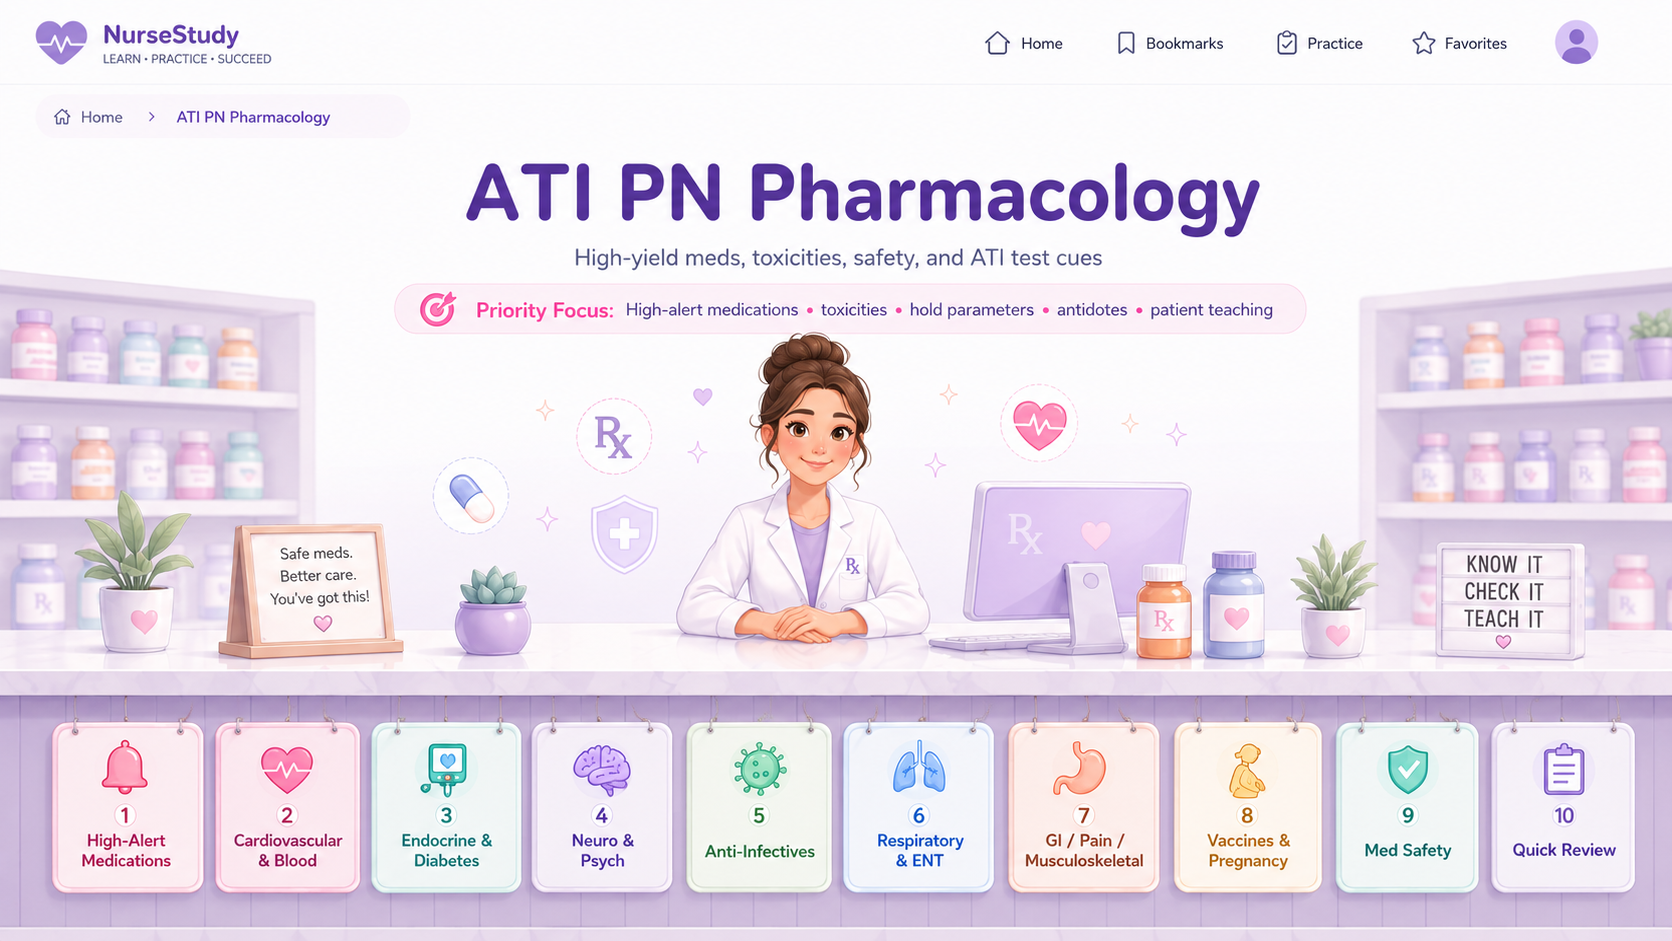
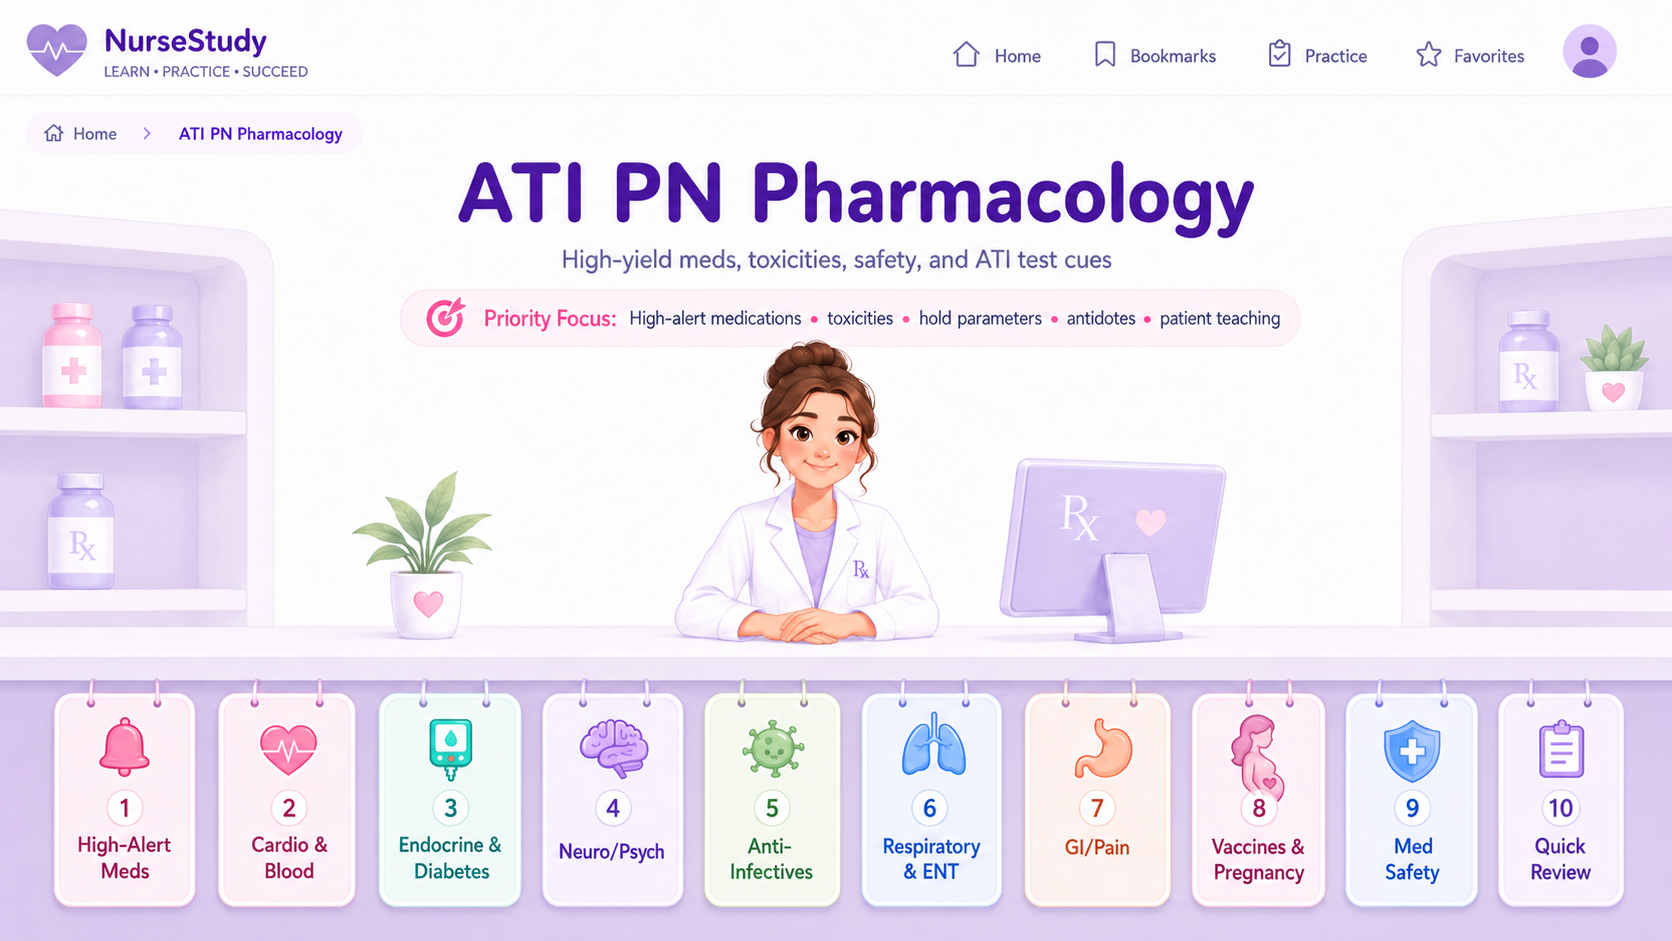
Use simplified pharmacology homepage mockup

diff --git a/assets/css/mh-cards.css b/assets/css/mh-cards.css
@@ -3218,7 +3218,7 @@ body[data-page-type="pharmacology-home"] .pharm-mockup-stage {
 body[data-page-type="pharmacology-home"] .pharm-mockup-art {
   position: absolute;
   left: 0;
-  top: -90px;
+  top: -94px;
   width: 100%;
   height: auto;
   max-width: none;
@@ -3233,11 +3233,36 @@ body[data-page-type="pharmacology-home"] .pharm-link-map {
   z-index: 2;
 }
 
+body[data-page-type="pharmacology-home"] .pharm-map-home {
+  position: absolute;
+  left: 1.25%;
+  top: 2.55%;
+  width: 8.8%;
+  height: 4.7%;
+  overflow: hidden;
+  border-radius: 999px;
+  color: transparent !important;
+  text-decoration: none !important;
+  font-size: 0;
+}
+
+body[data-page-type="pharmacology-home"] .pharm-map-home:hover,
+body[data-page-type="pharmacology-home"] .pharm-map-link:hover {
+  background: rgba(255, 255, 255, .12);
+}
+
+body[data-page-type="pharmacology-home"] .pharm-map-home:focus-visible,
+body[data-page-type="pharmacology-home"] .pharm-map-link:focus-visible {
+  outline: 4px solid rgba(111, 62, 214, .7);
+  outline-offset: -4px;
+  box-shadow: 0 0 0 7px rgba(255, 255, 255, .78);
+}
+
 body[data-page-type="pharmacology-home"] .pharm-map-link {
   position: absolute;
-  top: 74.05%;
-  width: 8.05%;
-  height: 22%;
+  top: 73.65%;
+  width: 8.35%;
+  height: 23.1%;
   overflow: hidden;
   border-radius: 18px;
   color: transparent !important;
@@ -3246,26 +3271,16 @@ body[data-page-type="pharmacology-home"] .pharm-map-link {
   transform: translateX(-50%);
 }
 
-body[data-page-type="pharmacology-home"] .pharm-map-link:focus-visible {
-  outline: 4px solid rgba(111, 62, 214, .7);
-  outline-offset: -4px;
-  box-shadow: 0 0 0 7px rgba(255, 255, 255, .78);
-}
-
-body[data-page-type="pharmacology-home"] .pharm-map-link:hover {
-  background: rgba(255, 255, 255, .12);
-}
-
-body[data-page-type="pharmacology-home"] .pharm-map-link.card-1 { left: 7.55%; }
-body[data-page-type="pharmacology-home"] .pharm-map-link.card-2 { left: 17.35%; }
-body[data-page-type="pharmacology-home"] .pharm-map-link.card-3 { left: 27.15%; }
-body[data-page-type="pharmacology-home"] .pharm-map-link.card-4 { left: 36.95%; }
-body[data-page-type="pharmacology-home"] .pharm-map-link.card-5 { left: 46.75%; }
-body[data-page-type="pharmacology-home"] .pharm-map-link.card-6 { left: 56.55%; }
-body[data-page-type="pharmacology-home"] .pharm-map-link.card-7 { left: 66.35%; }
-body[data-page-type="pharmacology-home"] .pharm-map-link.card-8 { left: 76.15%; }
-body[data-page-type="pharmacology-home"] .pharm-map-link.card-9 { left: 85.95%; }
-body[data-page-type="pharmacology-home"] .pharm-map-link.card-10 { left: 95.45%; }
+body[data-page-type="pharmacology-home"] .pharm-map-link.card-1 { left: 7.45%; }
+body[data-page-type="pharmacology-home"] .pharm-map-link.card-2 { left: 17.20%; }
+body[data-page-type="pharmacology-home"] .pharm-map-link.card-3 { left: 26.95%; }
+body[data-page-type="pharmacology-home"] .pharm-map-link.card-4 { left: 36.72%; }
+body[data-page-type="pharmacology-home"] .pharm-map-link.card-5 { left: 46.48%; }
+body[data-page-type="pharmacology-home"] .pharm-map-link.card-6 { left: 56.24%; }
+body[data-page-type="pharmacology-home"] .pharm-map-link.card-7 { left: 66.00%; }
+body[data-page-type="pharmacology-home"] .pharm-map-link.card-8 { left: 75.77%; }
+body[data-page-type="pharmacology-home"] .pharm-map-link.card-9 { left: 85.53%; }
+body[data-page-type="pharmacology-home"] .pharm-map-link.card-10 { left: 95.29%; }
 
 body[data-page-type="pharmacology-home"] .sr-only {
   position: absolute;

diff --git a/pharmacology.md b/pharmacology.md
@@ -15,6 +15,7 @@ page_type: pharmacology-home
     >
 
     <div class="pharm-link-map" aria-label="ATI PN Pharmacology study sections">
+      <a class="pharm-map-home" href="{{ '/' | relative_url }}">Home</a>
       <a class="pharm-map-link card-1" href="{{ '/pharmacology/high-alert-medications.html' | relative_url }}">High-Alert Medications</a>
       <a class="pharm-map-link card-2" href="{{ '/pharmacology/cardiovascular-blood.html' | relative_url }}">Cardiovascular &amp; Blood</a>
       <a class="pharm-map-link card-3" href="{{ '/pharmacology/endocrine-diabetes.html' | relative_url }}">Endocrine &amp; Diabetes</a>